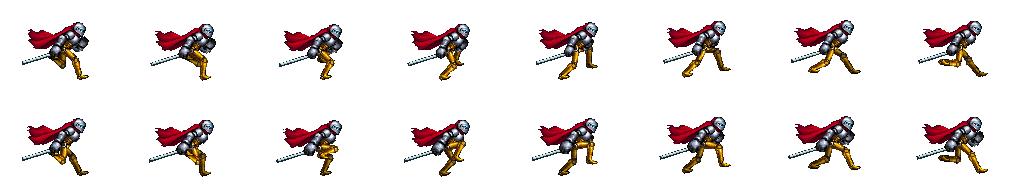
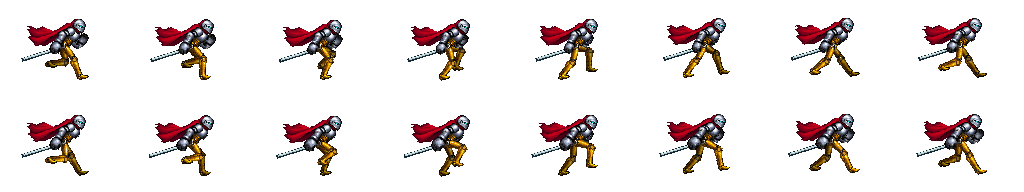
feat: refine knight gait and add double-tap sprint and mouse attacks

diff --git a/docs/player-guide/index.html b/docs/player-guide/index.html
@@ -29,10 +29,10 @@
 </section>
 
 <section class="section controls-section" id="controls"><div class="wrap"><div class="section-head"><div><p class="eyebrow">02 / TAKE CONTROL</p><h2>走近、投入，然後拔劍。</h2></div><div class="switcher" role="group" aria-label="操作平台"><button type="button" data-mode="desktop" aria-pressed="true">電腦</button><button type="button" data-mode="mobile" aria-pressed="false">手機／平板</button></div></div>
-<p id="control-note" class="muted">使用鍵盤操作；靠近物件後，看它上方的圖示與龍晶格。</p><div class="control-grid" id="control-grid">
+<p id="control-note" class="muted">使用鍵盤／滑鼠操作；靠近物件後，看它上方的圖示與龍晶格。</p><div class="control-grid" id="control-grid">
 <article class="control"><img src="assets/icons/left.svg" alt=""><div><h3>移動</h3><p>向左右探索；不用逐一指揮居民。</p></div><span class="key" data-desktop="A / D" data-mobile="空白處左右滑動">A / D</span></article>
-<article class="control"><img src="assets/icons/sword.svg" alt=""><div><h3>劈砍／連斬</h3><p>連按接三段攻擊。按住不會自動連打。</p></div><span class="key" data-desktop="J" data-mobile="劍圖示">J</span></article>
-<article class="control"><img src="assets/icons/dash.svg" alt=""><div><h3>快跑</h3><p>短拖慢走、長拖快跑。慢走與站立會逐漸恢復體力；力竭仍能慢走，恢復足夠後才可再次快跑。</p></div><span class="key" data-desktop="Shift + A / D" data-mobile="左右拖曳更長距離">Shift + A / D</span></article>
+<article class="control"><img src="assets/icons/sword.svg" alt=""><div><h3>劈砍／連斬</h3><p>連按接三段攻擊。按住不會自動連打。</p></div><span class="key" data-desktop="J／滑鼠左鍵" data-mobile="劍圖示">J／滑鼠左鍵</span></article>
+<article class="control"><img src="assets/icons/dash.svg" alt=""><div><h3>快跑</h3><p>手機拉長拖曳可衝刺。耗盡先停下喘息，再逐步恢復慢走、跑步；停下休息後才能再次衝刺。</p></div><span class="key" data-desktop="連按 A／D，第二下按住" data-mobile="左右拖曳更長距離">連按 A／D，第二下按住</span></article>
 <article class="control"><img src="assets/icons/hand.svg" alt=""><div><h3>現場互動</h3><p>招募、填格、委託工作或直接開箱。</p></div><span class="key" data-desktop="E" data-mobile="靠近目標，任一側空白處下滑">E</span></article>
 <article class="control"><img src="assets/icons/drop.svg" alt=""><div><h3>拋出龍晶</h3><p>按 E／手機下滑丟一顆，流浪者撿起會加入，小怪撿起會撤退。建築旁會優先投入；Q 可隨時直接丟出。</p></div><span class="key" data-desktop="E / Q" data-mobile="流浪者旁或無建築時下滑">E / Q</span></article>
 <article class="control"><img src="assets/icons/menu.svg" alt=""><div><h3>暫停／選單</h3><p>調整音樂、音效與手動存讀檔。</p></div><span class="key" data-desktop="Esc" data-mobile="左上漢堡選單">Esc</span></article>

diff --git a/docs/player-guide/guide-i18n.js b/docs/player-guide/guide-i18n.js
@@ -15,7 +15,7 @@
  const nodes = [];
  while (walker.nextNode()) if (!['SCRIPT','STYLE'].includes(walker.currentNode.parentElement?.tagName)) nodes.push(walker.currentNode);
  for (const node of nodes) node.nodeValue = t(node.nodeValue);
- for (const element of document.querySelectorAll('[alt],[aria-label],[data-mobile],meta[content]')) {
-  for (const attr of ['alt','aria-label','data-mobile','content']) if(element.hasAttribute(attr)) element.setAttribute(attr,t(element.getAttribute(attr)));
+ for (const element of document.querySelectorAll('[alt],[aria-label],[data-mobile],[data-desktop],meta[content]')) {
+  for (const attr of ['alt','aria-label','data-mobile','data-desktop','content']) if(element.hasAttribute(attr)) element.setAttribute(attr,t(element.getAttribute(attr)));
  }
 })();

diff --git a/docs/player-guide/guide.js b/docs/player-guide/guide.js
@@ -8,7 +8,7 @@
     document.getElementById('control-grid').classList.toggle('mobile', mode === 'mobile');
     document.getElementById('control-note').textContent = mode === 'mobile'
       ? t('左右空白處短拖慢走、長拖快跑、下滑給晶。快滑放手給一顆；靠近目標下滑按住會繼續填格。攻擊使用劍按鍵。')
-      : t('使用鍵盤操作；靠近物件後，看它上方的圖示與龍晶格。');
+      : t('使用鍵盤／滑鼠操作；靠近物件後，看它上方的圖示與龍晶格。');
   }
   modeButtons.forEach(button => button.addEventListener('click', () => setMode(button.dataset.mode)));
   if (matchMedia('(pointer: coarse)').matches || innerWidth < 760) setMode('mobile');

diff --git a/art/characters/grounded-run-v001/sources/process.py b/art/characters/grounded-run-v001/sources/process.py
@@ -33,7 +33,7 @@ def smooth(keys,t):
  p0=keys[(i-1)%n];p1=keys[i];p2=keys[(i+1)%n];p3=keys[(i+2)%n]
  return tuple(.5*((2*p1[k])+(-p0[k]+p2[k])*f+(2*p0[k]-5*p1[k]+4*p2[k]-p3[k])*f*f+(-p0[k]+3*p1[k]-3*p2[k]+p3[k])*f**3) for k in range(2))
 def leg(im,hip,foot,front):
- dx,dy=foot[0]-hip[0],foot[1]-hip[1];dist=math.hypot(dx,dy);L1,L2=16,17
+ dx,dy=foot[0]-hip[0],foot[1]-hip[1];dist=math.hypot(dx,dy);L1,L2=17,18
  if dist>L1+L2-.1:
   k=(L1+L2-.1)/dist;foot=(hip[0]+dx*k,hip[1]+dy*k);dx*=k;dy*=k;dist*=k
  along=(L1*L1-L2*L2+dist*dist)/(2*dist);h=math.sqrt(max(0,L1*L1-along*along));knee=(hip[0]+dx*along/dist+dy*h/dist,hip[1]+dy*along/dist-dx*h/dist)
@@ -54,11 +54,11 @@ for mode in ['run','sprint','walk']:
   frames=[];atlas=Image.new('RGBA',(1024,192))
   for i in range(16):
    t=i/16;im=Image.new('RGBA',(512,384))
-   bob=2*math.sin(t*math.tau*2)
-   hip=(64,50+bob);lean=3 if mode=='sprint' else 0
-   keys=[(16,77),(3,77),(-15,77),(-21,70),(-14,55),(0,59),(13,65),(20,71)]
+   bob=1.0*math.sin(t*math.tau*2)
+   hip=(64,(48.5 if mode=='sprint' else 46.5)+bob);lean=3 if mode=='sprint' else 0
+   keys=[(16,77),(3,77),(-15,77),(-20,72),(-16,64),(0,66),(13,69),(19,74)]
    if mode=='sprint':keys=[(21,76),(4,77),(-19,77),(-25,67),(-16,51),(0,54),(16,61),(24,69)]
-   if mode=='walk':keys=[(10,77),(5,77),(0,77),(-6,77),(-10,77),(-6,72),(0,69),(7,72)];hip=(64,50+math.sin(t*math.tau*2)*.6)
+   if mode=='walk':keys=[(10,77),(5,77),(0,77),(-6,77),(-10,77),(-6,75),(0,74),(7,75)];hip=(64,44+math.sin(t*math.tau*2)*.4)
    def foot(p):
     x,y=smooth(keys,p);return (64+x,y)
    # Cape gets a traveling wave, while its attachment stays fixed at the shoulder.

diff --git a/tools/build_web.py b/tools/build_web.py
@@ -47,7 +47,7 @@ def export_project(ref: str, output: Path, godot: str) -> Path:
         '請勿使用 file:// 直接雙擊遊戲 HTML；引擎必須下載旁邊的 .wasm 與 .pck。\n'
         'guide.html 是可離線閱讀的玩家圖文指南。\n\n'
         '先點一下遊戲畫面，以便瀏覽器啟用聲音與鍵盤。\n'
-        'A/D 移動；Shift 加速；J 連斬；E 互動；Q 丟晶；Esc 暫停。\n'
+        'A/D 移動；同方向雙按並按住衝刺；J／滑鼠左鍵連斬；E 互動；Q 丟晶；Esc 暫停。\n'
         '暫停選單可調整音量與手動存讀檔；書本圖示會在遊戲內開啟玩家圖文指南。\n'
         '閱讀時遊戲保持暫停，按 × 或 Esc 關閉指南，再按播放繼續。\n'
         '存檔保存在此網址對應的瀏覽器資料，與桌面版分開；清除網站資料會移除進度。\n'

diff --git a/docs/lessons/71-double-tap-and-mouse-attack.md b/docs/lessons/71-double-tap-and-mouse-attack.md
@@ -1,0 +1,13 @@
+# 71：雙按衝刺與滑鼠攻擊
+
+電腦操作現在是：按住 A／D 一般移動；同一個方向快速按兩次，第二下不放開就衝刺。放開、換方向、同時按兩邊或暫停會解除衝刺。Shift 不再加速。J 與滑鼠左鍵都能揮劍，再按可連斬；按住左鍵不會自動連打。手機維持長拖加速及劍按鈕。
+
+在 Godot 的 FileSystem 點開 `data/desktop_controls.tres`，Inspector 的 **Double Tap Seconds** 控制兩次按下之間可相隔多久，目前 0.28 秒。改成 0.35 會比較容易觸發，改成 0.20 則需要更快雙按。這只影響手勢辨識，不會改變衝刺速度或體力消耗。
+
+輸入辨識放在 presentation/frontier_controls.gd；角色能不能衝刺，仍由 application/campaign_travel.gd 決定。因此雙按也不能繞過耗盡後的停步和恢復限制。作業系統的按鍵自動重複不算第二次按下。
+
+滑鼠攻擊只接收未被介面使用的點擊。Godot 的 Button 會消耗 GUI 事件；TouchScreenButton 則使用另一條觸控事件路徑，所以漢堡選單、手機攻擊鈕、懸空填晶格另共用 HUD 已計算的排除區，避免點選單時揮劍。手機合成的滑鼠事件也不會額外出刀。
+
+喘息滑行的原因是移動已恢復，休息圖卻仍在淡出。現在最後 0.35 秒先在原地收尾，位移恢復前結束休息圖；疲勞計時和存檔格式維持原規則。腿部也提高髖部、伸展支撐腳、降低收腿高度，持劍與空手同步調整。
+
+小練習：暫時把 Double Tap Seconds 改成 0.35，開新旅程比較 A、鬆開、A 按住的節奏，再改回 0.28。雙按後按 Esc，恢復遊戲應保持停止，必須重新按鍵。

diff --git a/CONTEXT.md b/CONTEXT.md
@@ -208,3 +208,10 @@
 避難所二級自動建農具所，農田／农夫同時開放；清地隨機農田亦須二級。主戰役移除騎士治療設施與獨立戰鬥練習入口，保留騎士升級站。
 
 **特殊部件（Special modules）**：兩側深處探索取得雷弧震盪／穿甲雷槍，帶回升級站入庫後 F／齒輪選配，K／雙指上滑使用。耗體力、共用冷卻；v10 存檔保存庫存與冷卻。詳見 docs/design/agriculture-and-modules.md。
+
+
+## 電腦操作修訂（2026-09-22）
+
+**雙按衝刺**：A／D 一般移動；同方向在 0.28 秒內連按兩次，第二下持續按住即衝刺。放開、反向、雙方向衝突、暫停／失焦清除；Shift 不再加速。手機保留兩段拖曳。體力耗盡仍必須停步喘息、慢走、跑步，停下充分休息後才能重新雙按衝刺。
+
+**滑鼠連斬**：電腦 J／滑鼠左鍵均可攻擊，反覆點擊接三段連斬，持續按住不自動出刀。介面按鈕、懸空龍晶填格與手機模擬滑鼠事件不會誤觸世界攻擊。

diff --git a/art/characters/grounded-run-v001/README.md b/art/characters/grounded-run-v001/README.md
@@ -5,3 +5,5 @@ Original armor/cape pixels are from the project-owned generated artwork in `../f
 Six transparent 1024×192 atlases, each 16 frames in 8 columns; cells 128×96, foot line y=80. Armed/unarmed variants of run, sprint and exhausted walk. Authored foot paths drive contact, push-off, heel recovery and flight; hip movement, counter-swing and cape wave share the same phase.
 
 Rebuild with Pillow + NumPy: `python3 sources/process.py`. Set `ART_PREVIEWS=1` for optional contact sheets/GIFs under `sources/`; previews are excluded from game exports. Run/sprint playback defaults: 32/48 fps; tired walk: 20 fps. The runtime blends cadence rather than restarting the cycle when speed changes.
+
+September 22 refinement: raise the hip and extend the support leg; reduce normal-run heel recovery and tired-walk foot lift. Armed/unarmed variants share these paths. The source drawing and deterministic rebuild script remain intact.
